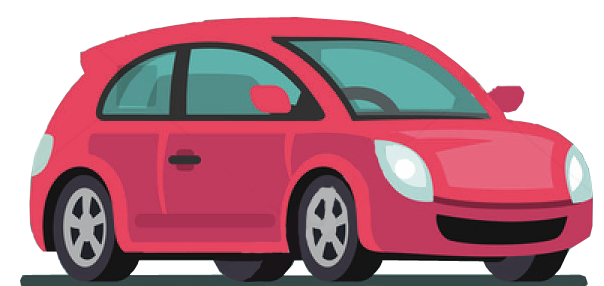
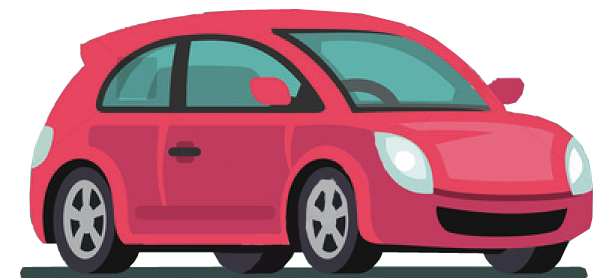
header funcional

diff --git a/src/main/webapp/styles/header.css b/src/main/webapp/styles/header.css
@@ -51,8 +51,8 @@ position: relative;
  padding-bottom: 0px;
  margin-left: -50vw;
  margin-top: 0px;
- left: 80%;
- top: -230px;	
+ left: 85%;
+ top: -100px;	
 }
 
 .imgpassenger{
@@ -62,8 +62,8 @@ position: relative;
  padding-bottom: 0px;
  margin-left: -50vw;
  margin-top: 0px;
- left: 80%;
- top: -50px;	
+ left: 90%;
+ top: -30px;	
 }
 
 .container .row-full .btn-light  {
